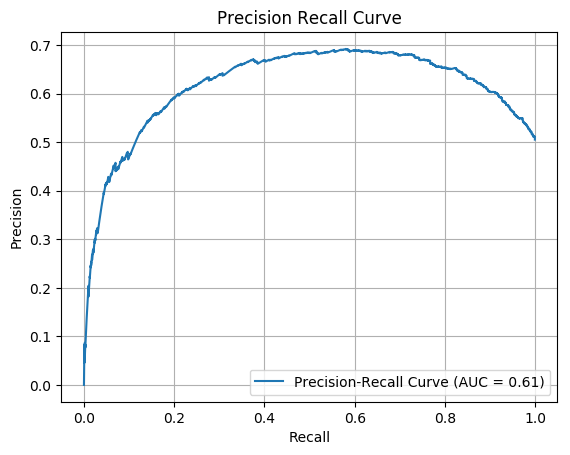
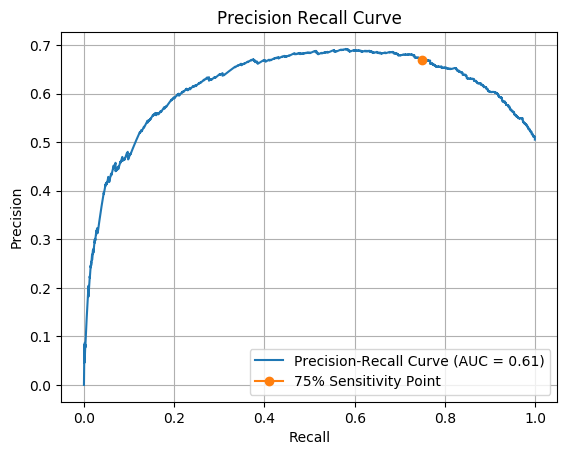
Answer to Question 2 (iv)

Changed region(s): [[0.4474, 0.7692, 0.9544, 0.8615], [0.7158, 0.1231, 0.7456, 0.1538]]

diff --git a/Assignment #3/script.py b/Assignment #3/script.py
@@ -77,7 +77,6 @@ plt.legend(loc = 'lower left')
 plt.grid(True)
 plt.savefig(outputLocation + 'precision-recall.png', bbox_inches='tight')
 
-
 print('\nQUESTION 2')
 data = pd.read_csv("Assignment #3/assigData3.tsv", sep='\t', index_col=False,
     header=None, names=["score", "class"])
@@ -107,16 +106,17 @@ precision, recall, t = metrics.precision_recall_curve(data['class'],
     data['score'], pos_label=1)
 auc = metrics.auc(recall[1:-1], precision[1:-1])
 
+print('(v)')
+index = index = [i for i,x in enumerate(recall) if x == 0.75][0]
+print('Precision (@75'+ '%' +' Sensitivity): ' + str(precision[index]))
+
 plt.figure()
 plt.plot(recall[1:-1], precision[1:-1],
     label='Precision-Recall Curve (AUC = %0.2f)' %auc)
+plt.plot(recall[index], precision[index], marker='o', label='75% Sensitivity Point')
 plt.title('Precision Recall Curve')
 plt.xlabel('Recall')
 plt.ylabel('Precision')
 plt.legend(loc = 'lower right')
 plt.grid(True)
 plt.savefig(outputLocation + 'precision-recall2.png', bbox_inches='tight')
-
-print('(v)')
-index = index = [i for i,x in enumerate(recall) if x == 0.75][0]
-print('Precision (@75'+ '%' +' Sensitivity): ' + str(precision[index]))
